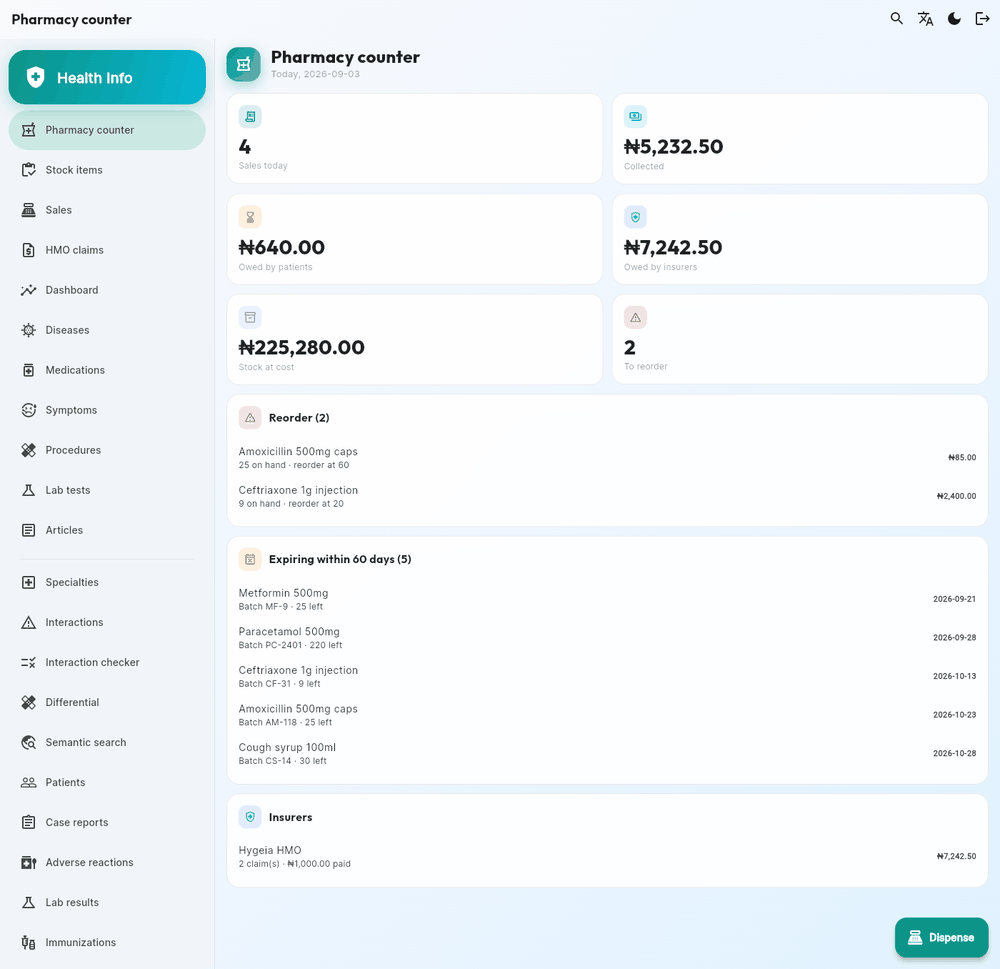
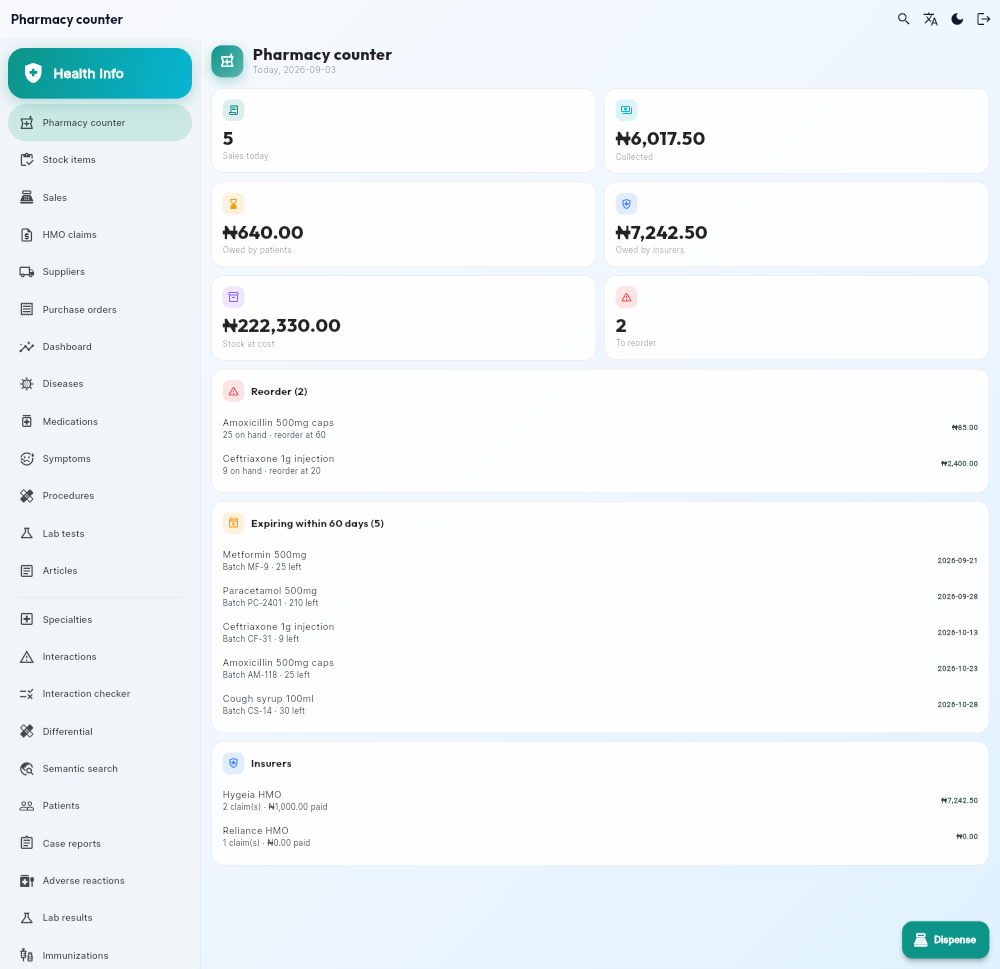
Reshoot the Flutter client screens, on the same data as the web ones
The mobile row still showed a pharmacy from before the seed grew its fifth
sale, so the two rows in the README disagreed about the day's takings. Both
rows now come from one seeded database: the counter reads 5 sales and ₦6,017.50
collected either way, and the claim shown on the web is the claim listed on
mobile.

The claims screen is shot as the manager, where the auto-submitting insurer's
claim sits at Submitted offering Approve and Reject while the approved ones
offer Record payment — the state-gated actions the caption talks about.

scripts/shoot_mobile_screenshots.py is how they were taken. The Flutter client
draws to a canvas, so there is nothing to click by selector: it writes the
tokens into the storage shared_preferences reads and clicks the nav rail by
coordinate, which is the part worth keeping rather than rediscovering.

Claude-Session: https://claude.ai/code/session_011mp2qkUkPaN7qkiVjCg7KZ

diff --git a/scripts/shoot_mobile_screenshots.py b/scripts/shoot_mobile_screenshots.py
@@ -1,0 +1,111 @@
+"""Recapture the README's Flutter client screenshots.
+
+The app is driven as a web build, which is how these shots have always been
+framed: a browser at 1000px, not a phone. Its UI is a canvas, so there is
+nothing to click by selector — the tokens are written straight into the
+storage `shared_preferences` uses, and the nav rail is clicked by coordinate.
+
+Usage:
+    python manage.py seed_pharmacy --reset
+    python manage.py runserver 8000
+    cd mobile && flutter build web
+    (cd mobile/build/web && python -m http.server 5501)
+    pip install playwright        # drives the installed Edge; no browser download
+    python scripts/shoot_mobile_screenshots.py docs/screenshots
+"""
+import json
+import sys
+import urllib.request
+
+from playwright.sync_api import sync_playwright
+
+APP = "http://localhost:5501/"
+API = "http://localhost:8000"
+TENANT = "demo"
+PASSWORD = "devpass123"
+COUNTER = "110001"        # the pharmacist's short login
+MANAGER = "08031110002"   # tenant_admin: sees the claim decisions
+OUT = sys.argv[1]
+
+# Shots are taken at 1.5x and scaled down, which is what fits a whole screen
+# into 1000px and still reads.
+SCALE = 2 / 3
+
+# Nav rail positions, in the coordinates of the finished 1000px-wide image.
+# The manager's rail carries one extra entry, so its rows sit lower.
+NAV_ORDERS = (79, 309)
+NAV_CLAIMS_MANAGER = (69, 271)
+ORDER_CARD = (403, 388)   # the one seeded purchase order, in the list
+
+
+def token(identifier):
+    """A JWT pair, fetched the way the app's own login does."""
+    request = urllib.request.Request(
+        f"{API}/api/auth/token/",
+        data=json.dumps({"phone": identifier, "password": PASSWORD}).encode(),
+        headers={"Content-Type": "application/json", "X-Tenant-ID": TENANT},
+    )
+    with urllib.request.urlopen(request) as response:
+        return json.load(response)
+
+
+def page(browser, height):
+    return browser.new_page(
+        viewport={"width": round(1000 / SCALE), "height": round(height / SCALE)},
+        device_scale_factor=SCALE,
+    )
+
+
+def boot(pg, tokens):
+    """Start the app already signed in — its login field takes no synthetic
+    typing, and the tokens are all the app reads back on startup."""
+    pg.goto(APP)
+    pg.wait_for_timeout(2500)
+    pg.evaluate(
+        """([access, refresh, tenant]) => {
+            localStorage.setItem('flutter.access', JSON.stringify(access));
+            localStorage.setItem('flutter.refresh', JSON.stringify(refresh));
+            localStorage.setItem('flutter.tenant_slug', JSON.stringify(tenant));
+        }""",
+        [tokens["access"], tokens["refresh"], TENANT],
+    )
+    pg.reload()
+    pg.wait_for_timeout(14000)
+
+
+def tap(pg, point, wait=5000):
+    x, y = point
+    pg.mouse.click(x / SCALE, y / SCALE)
+    pg.wait_for_timeout(wait)
+
+
+counter, manager = token(COUNTER), token(MANAGER)
+
+with sync_playwright() as driver:
+    browser = driver.chromium.launch(channel="msedge", headless=False)
+
+    # The counter's own screen is where the pharmacist lands.
+    pg = page(browser, 969)
+    boot(pg, counter)
+    pg.screenshot(path=OUT + "/pharmacy-counter.png")
+    pg.close()
+
+    # Orders, then the part-delivered one in its sheet.
+    pg = page(browser, 945)
+    boot(pg, counter)
+    tap(pg, NAV_ORDERS)
+    pg.screenshot(path=OUT + "/pharmacy-orders.png")
+    tap(pg, ORDER_CARD)
+    pg.screenshot(path=OUT + "/pharmacy-order.png")
+    pg.close()
+
+    # Claims as the manager: approving and paying are admin-only, and the
+    # picture is about each claim offering the one action its state allows.
+    pg = page(browser, 727)
+    boot(pg, manager)
+    tap(pg, NAV_CLAIMS_MANAGER, wait=6000)
+    pg.screenshot(path=OUT + "/pharmacy-claims.png")
+    pg.close()
+    browser.close()
+
+print("captured 4 mobile screenshots")
